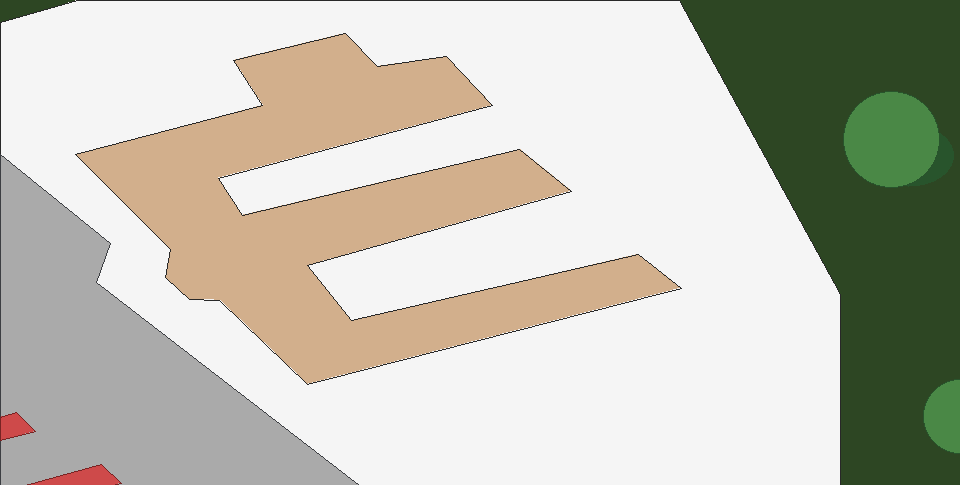
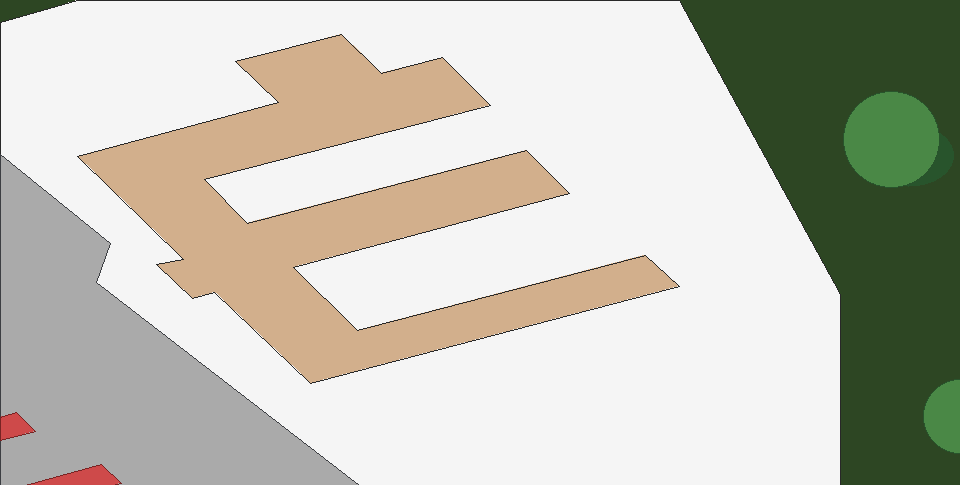
raster/scene: document scanline fill, retrace E-building footprint
- raster: comment fillPolygon (even-odd rule, half-open vertex test,
  how concave E-building notches fall between crossing pairs). No
  behavior change.
- scene: re-trace e_bldg corners from docs/sketchup_top.png by fitting
  lines to each SketchUp edge and intersecting neighbours.
- docs: refresh campus.png / campus_zoom.png from make-run output.
- README: add scanline fill / buildings notes and contributor credit.

diff --git a/src/raster.cpp b/src/raster.cpp
@@ -29,6 +29,25 @@ void drawPolygon(Canvas& c, const Polygon& poly, Color col) {
     }
 }
 
+// Scanline polygon fill, even-odd rule.
+//
+// For every pixel row inside the polygon's y-range we cast a horizontal ray,
+// collect the x where it crosses each edge, sort them, and fill between
+// crossings in pairs: [x0,x1], [x2,x3], ... Walking left to right, each
+// crossing toggles inside/outside, so no convexity assumption is needed.
+//
+// The E-building shows why this matters: a row through the arms crosses the
+// outline 4 or 6 times (spine left edge, then the left and right side of each
+// arm it hits). Sorting gives spans like [spine..arm tip] [next arm..tip], and
+// the gaps between pairs are exactly the concave notches between the arms,
+// which stay unfilled. The same holds for the step on the spine and the notch
+// beside the top tab.
+//
+// Vertex handling: the half-open test (one endpoint <= sy, the other > sy)
+// counts a vertex shared by two edges once when the outline passes through
+// it, and zero or two times at a local min/max, so the crossing count per row
+// is always even. Horizontal edges never satisfy the test and are skipped;
+// the edges around them supply the span ends.
 void fillPolygon(Canvas& c, const Polygon& poly, Color col) {
     if (poly.size() < 3) return;
     double ymin = poly[0].y, ymax = poly[0].y;
@@ -36,23 +55,27 @@ void fillPolygon(Canvas& c, const Polygon& poly, Color col) {
         ymin = std::min(ymin, p.y);
         ymax = std::max(ymax, p.y);
     }
+    // Only visit rows that are both inside the polygon and on the canvas.
     int yStart = std::max(0, iround(std::ceil(ymin)));
     int yEnd = std::min(c.height() - 1, iround(std::floor(ymax)));
 
-    std::vector<double> xs;
+    std::vector<double> xs;  // reused across rows to avoid reallocating
     for (int y = yStart; y <= yEnd; ++y) {
         xs.clear();
         double sy = y + 0.5;  // sample at pixel center to avoid vertex glitches
         for (size_t i = 0; i < poly.size(); ++i) {
             const Point& a = poly[i];
             const Point& b = poly[(i + 1) % poly.size()];
-            // Does the horizontal scanline cross edge a-b?
+            // Does the horizontal scanline cross edge a-b? (half-open in y)
             if ((a.y <= sy && b.y > sy) || (b.y <= sy && a.y > sy)) {
+                // Linear interpolation along the edge gives the crossing x.
                 double t = (sy - a.y) / (b.y - a.y);
                 xs.push_back(a.x + t * (b.x - a.x));
             }
         }
         std::sort(xs.begin(), xs.end());
+        // Fill inside spans only: pairs (0,1), (2,3), ... Each span covers the
+        // integer x in [ceil(left), floor(right)], clamped to the canvas.
         for (size_t i = 0; i + 1 < xs.size(); i += 2) {
             int xl = std::max(0, iround(std::ceil(xs[i])));
             int xr = std::min(c.width() - 1, iround(std::floor(xs[i + 1])));

diff --git a/README.md b/README.md
@@ -34,6 +34,26 @@ puts the focus on the algorithms (lines, fills, curves, clipping).
 | Zoom / polygon clip | Sutherland–Hodgman | `src/clipping.cpp` |
 | Scene input | Plain-text scene loader | `src/scene.cpp` |
 
+**Contributors**
+
+- Scanline fill / buildings — @derrickkimutai1
+
+### Scanline fill / buildings
+
+`fillPolygon` uses the **even-odd scanline** rule. For each pixel row it
+intersects a horizontal line through the pixel centre (`y + 0.5`) with every
+edge, sorts the crossing x values, and fills between pairs
+`[x0,x1]`, `[x2,x3]`, …. Because inside and outside simply alternate, concave
+shapes need no special case. A row through the E-building's arms produces 4–6
+crossings, and the gaps between pairs are the notches between the arms. The
+half-open edge test (`a.y <= y < b.y`) counts shared vertices once and skips
+horizontal edges.
+
+The `e_bldg` footprint in `assets/campus.scene` was re-traced from
+`docs/sketchup_top.png`. Each corner is where two lines meet, each line fitted
+by least squares to the outline pixels of one SketchUp edge, then converted to
+half-scale scene coordinates.
+
 ## Project layout
 
 ```
